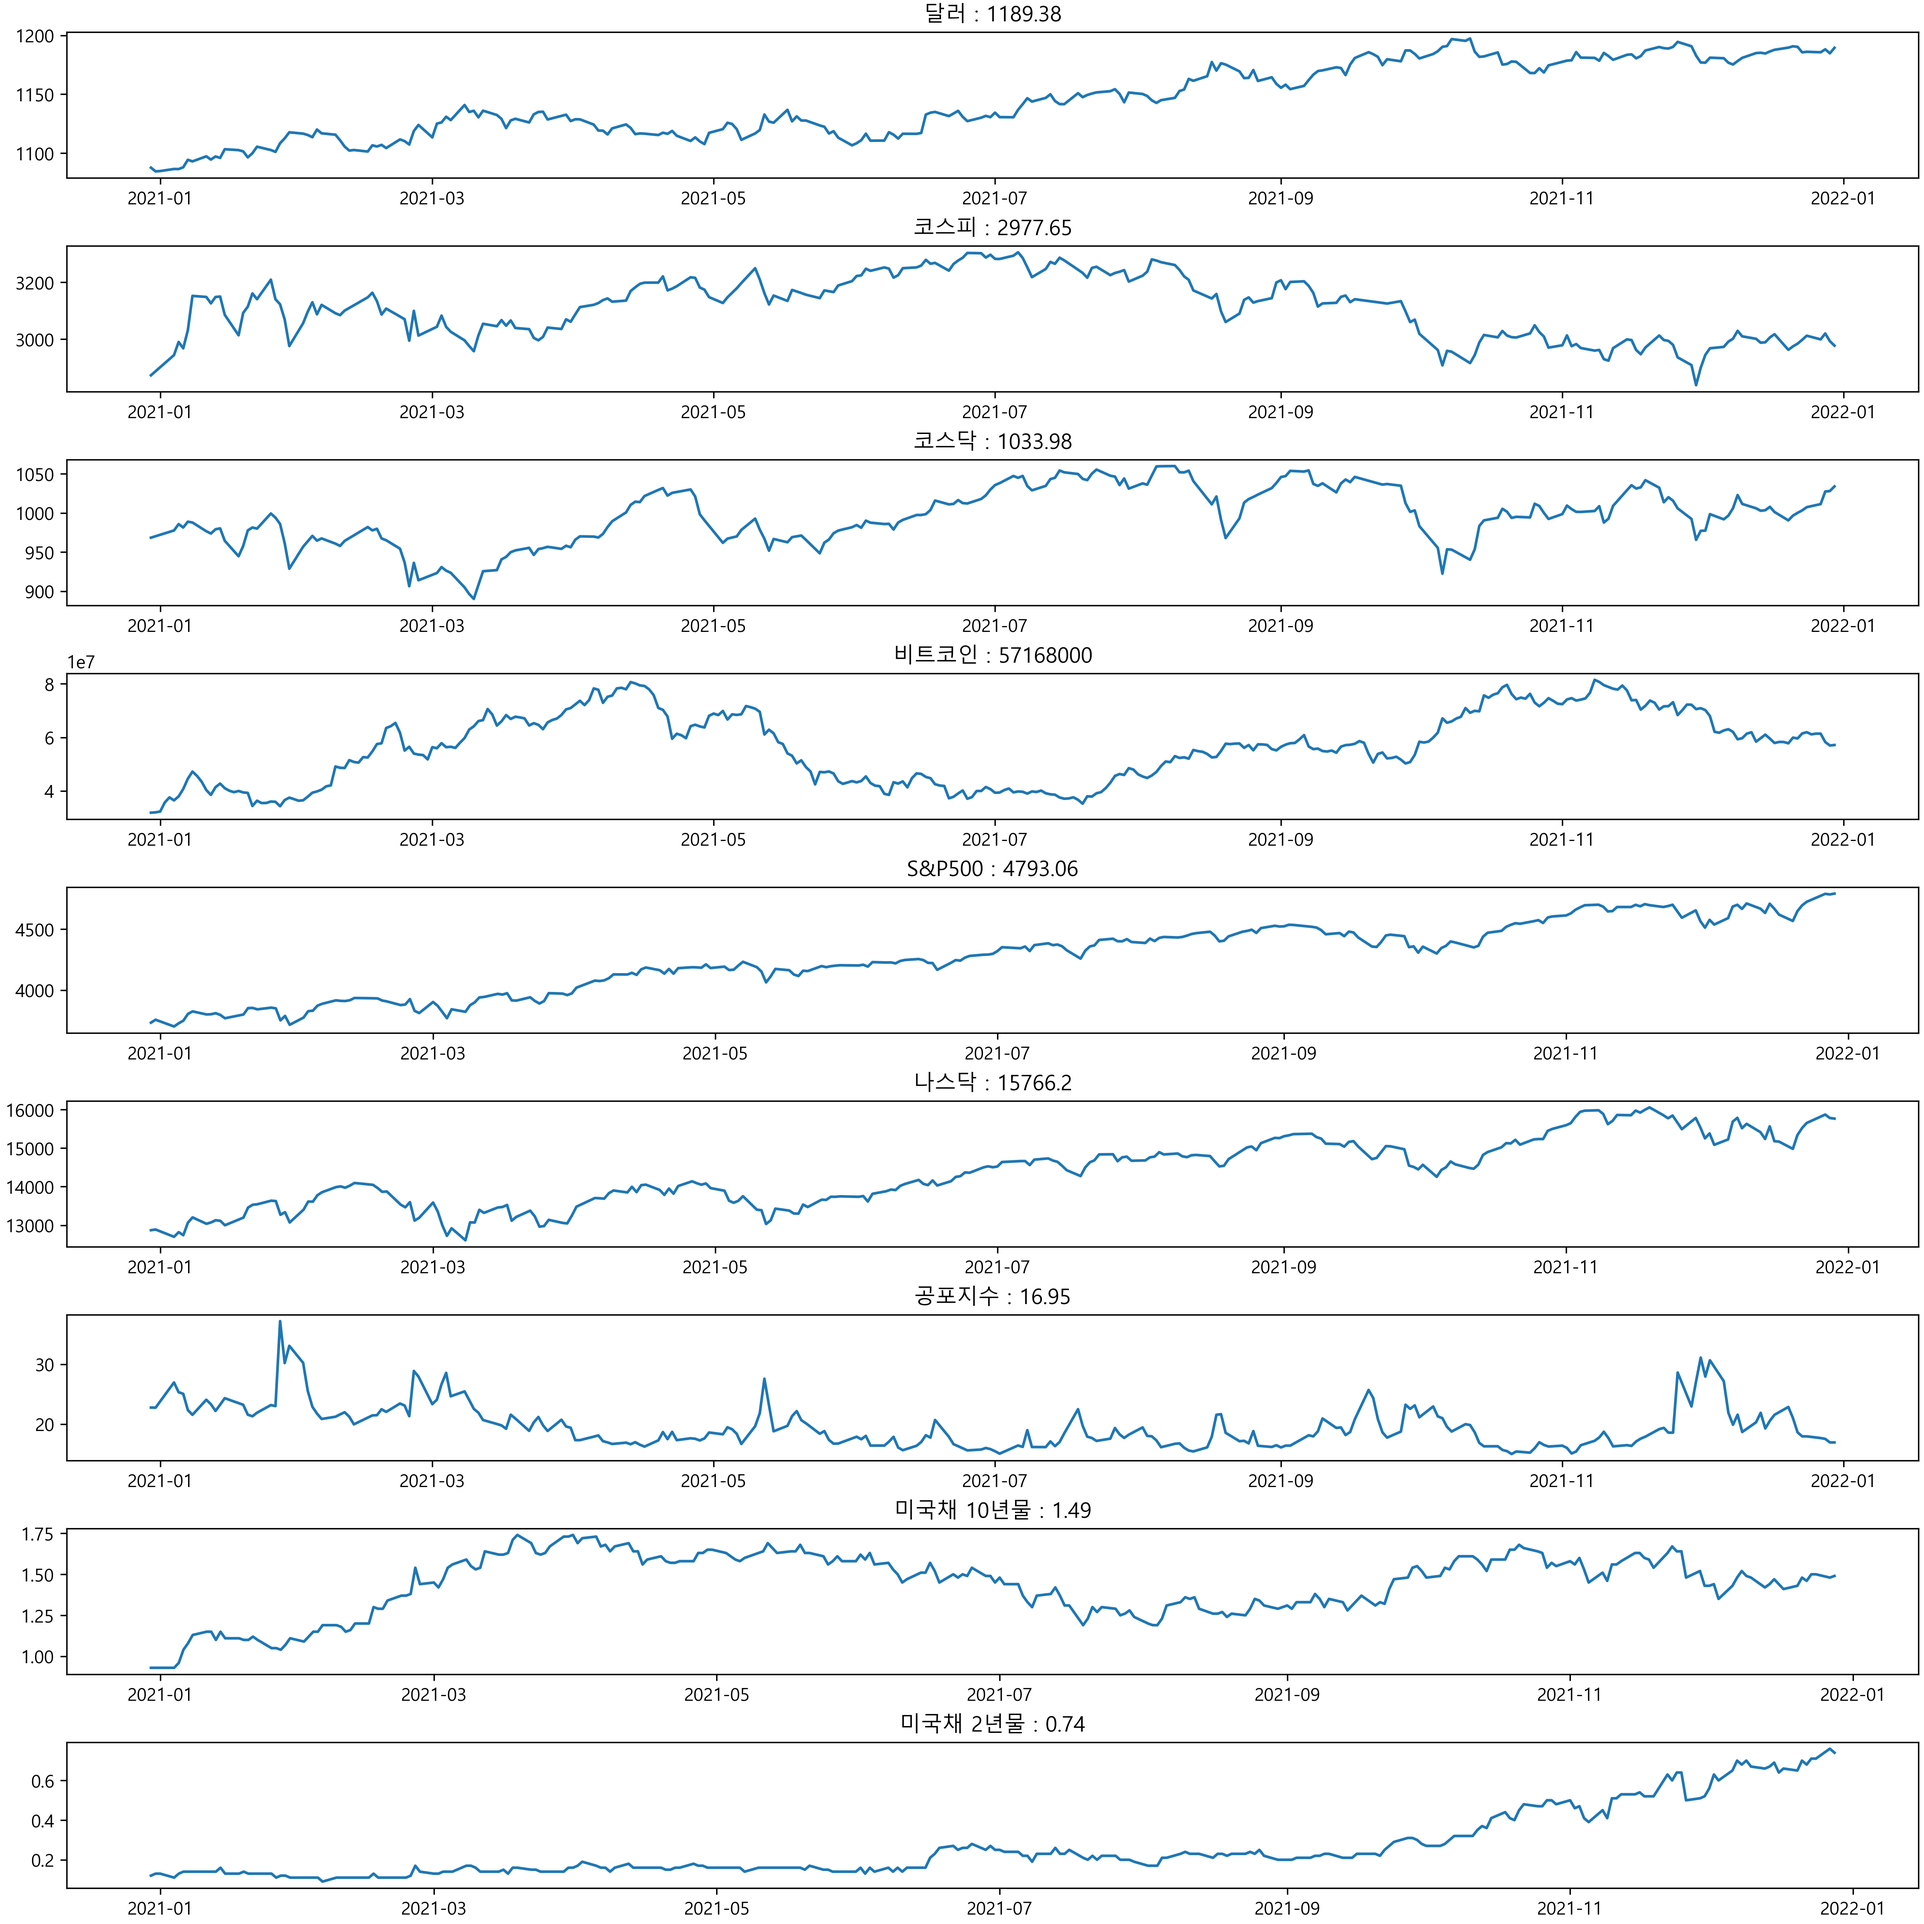
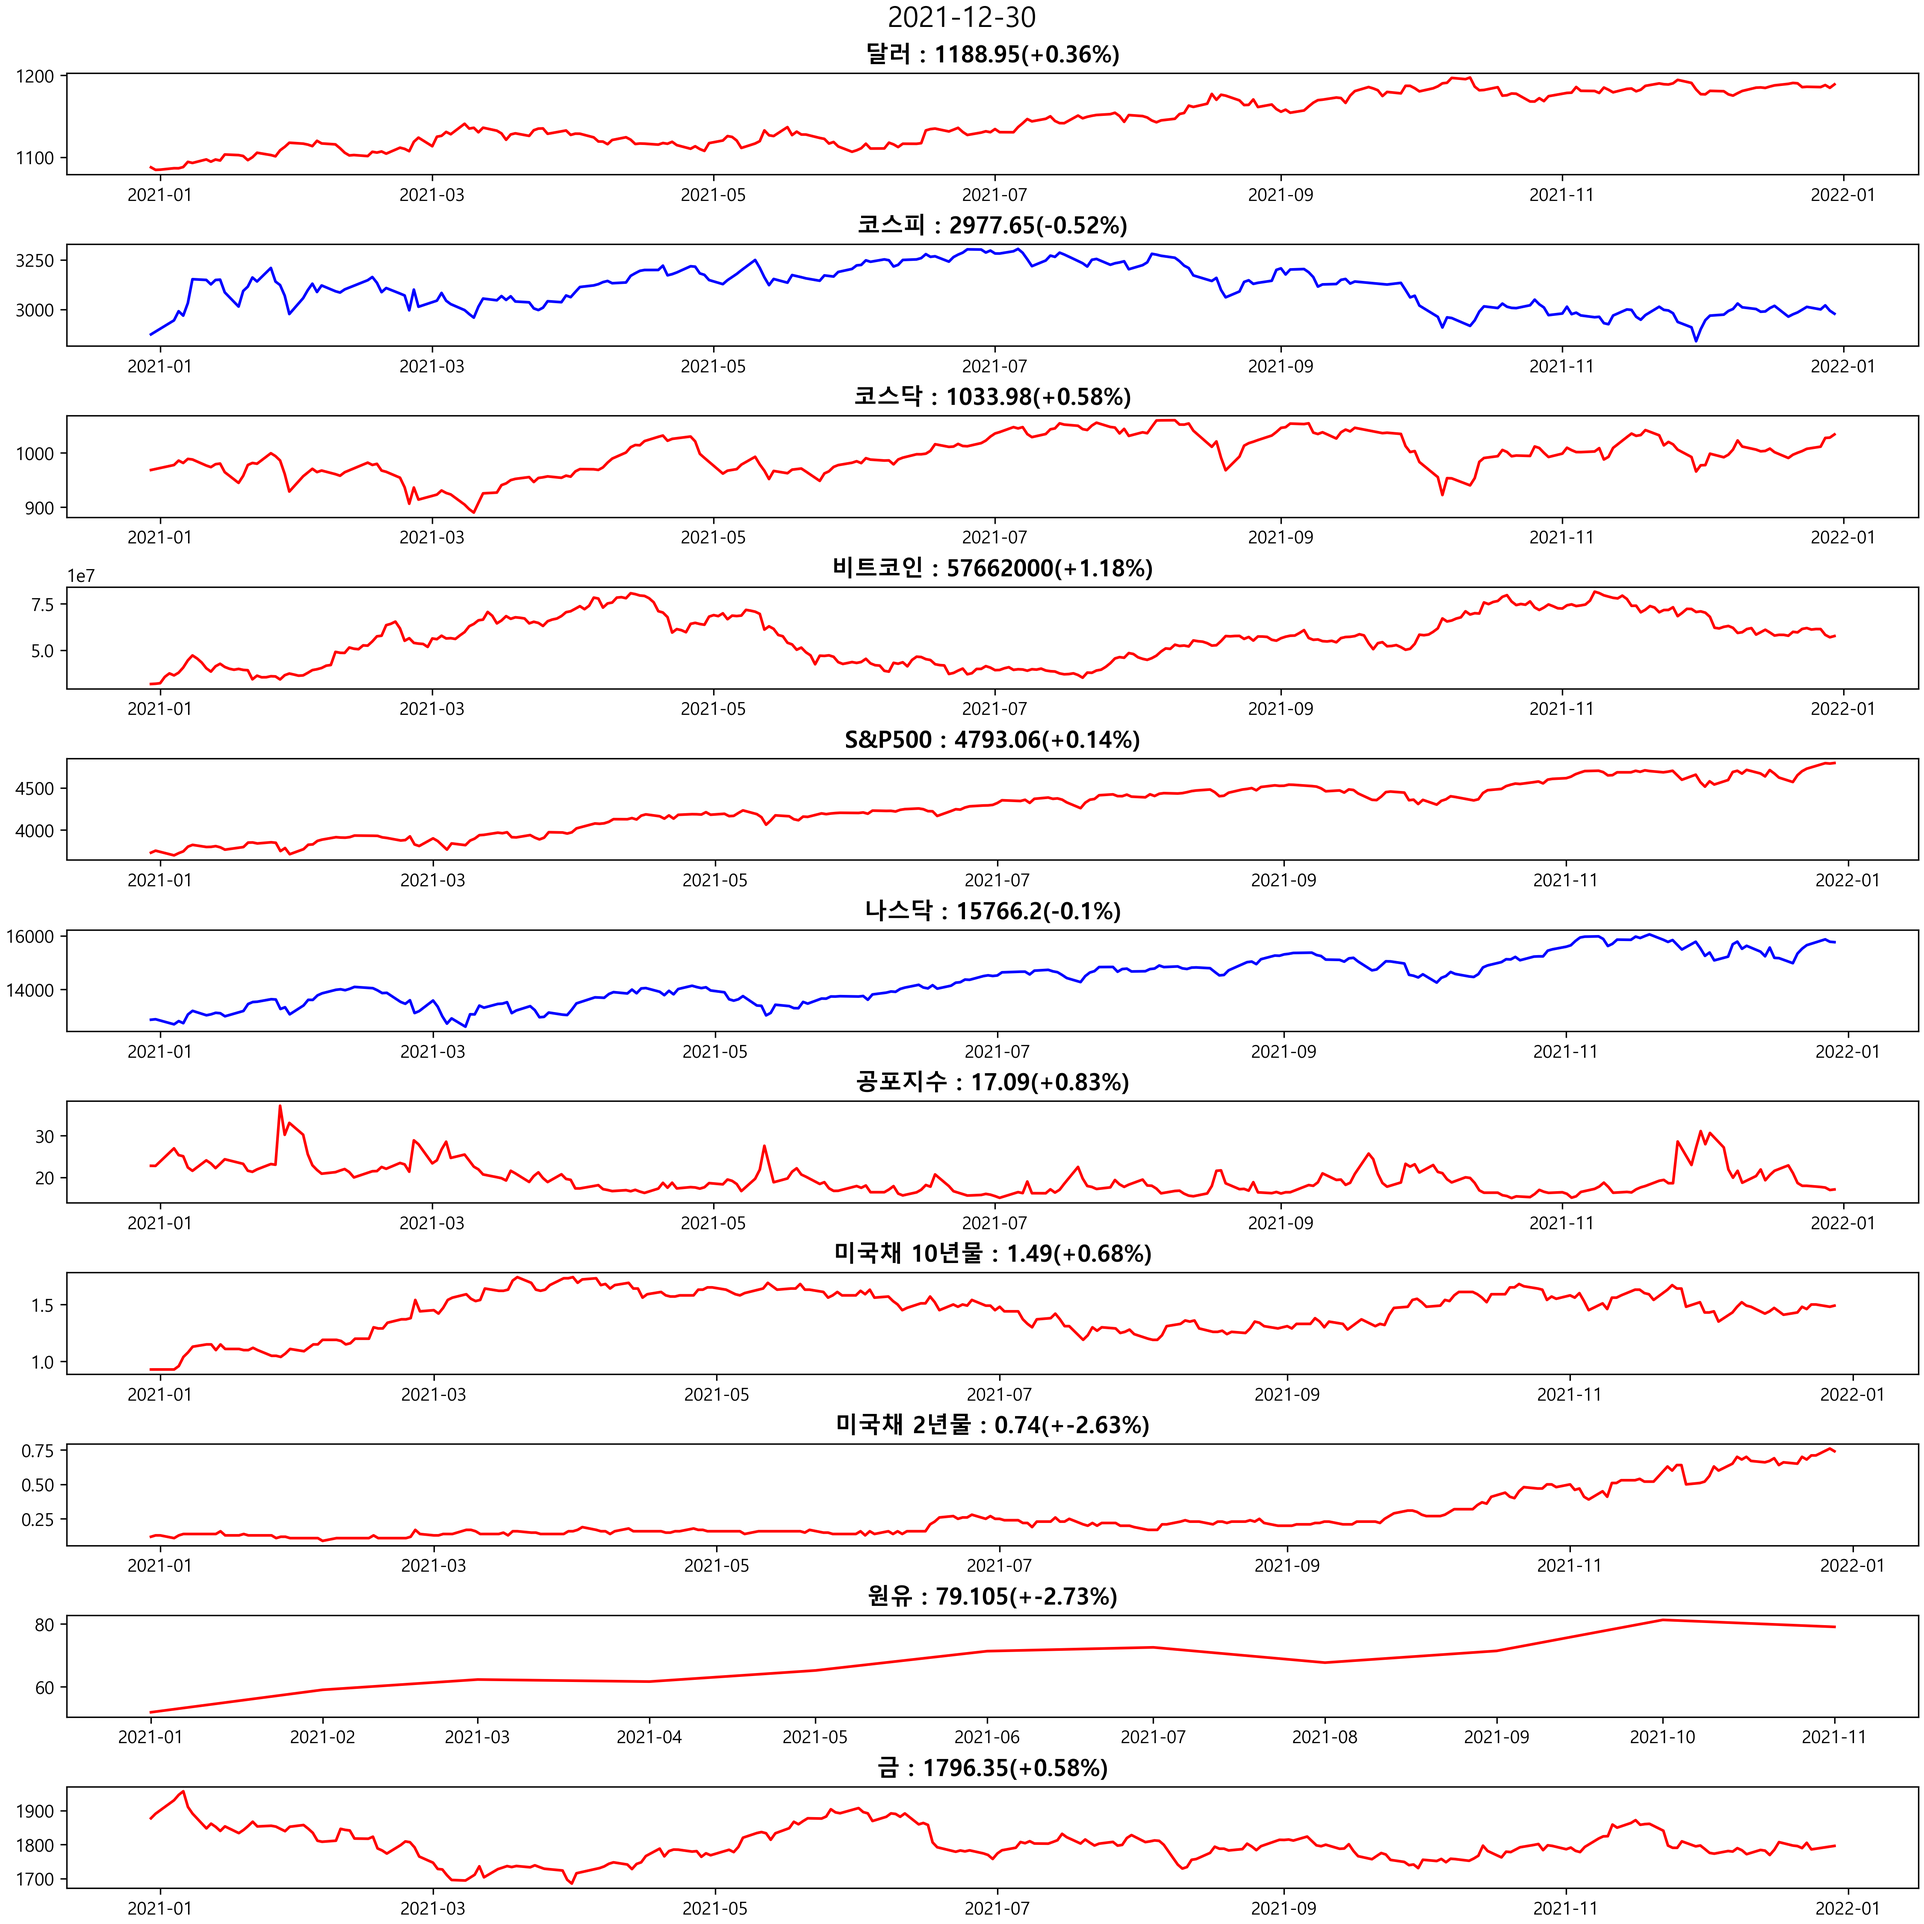
indicator

diff --git a/daily_script/indicators.py b/daily_script/indicators.py
@@ -136,8 +136,8 @@ for name,ticker,data_source in data_list5 :
 
 plt.savefig('C:\\Users\\sungjoon\\GIT\\stock\\daily_script\\indicator_image\\{date}.png'.format(date=current_day),dpi=300)
 
-# bot.send_photo(chat_id, caption = '지수', photo=open(
-#     'C:\\Users\\sungjoon\\GIT\\stock\\daily_script\\indicator_image\\{date}.png'.format(date=current_day), 'rb'))
+bot.send_photo(chat_id, caption = '지수', photo=open(
+    'C:\\Users\\sungjoon\\GIT\\stock\\daily_script\\indicator_image\\{date}.png'.format(date=current_day), 'rb'))
 
 
 #%%

diff --git a/daily_script/transaction_by_investor.py b/daily_script/transaction_by_investor.py
@@ -76,7 +76,7 @@ start = (datetime.datetime.now() - datetime.timedelta(days=365)).strftime('%Y-%m
 current_day = datetime.datetime.now().strftime('%Y%m%d')
 #%%
 fig, axs = plt.subplots(len(data_list)+len(data_list2)+len(data_list5),\
-            constrained_layout=True,figsize=(15,22))
+            constrained_layout=True,figsize=(15,15))
 index = 0
 fig.suptitle(end, fontsize=16)
 #%%
